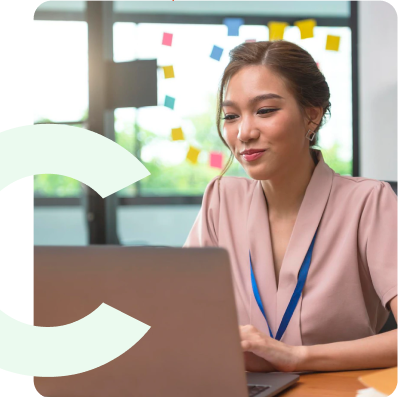
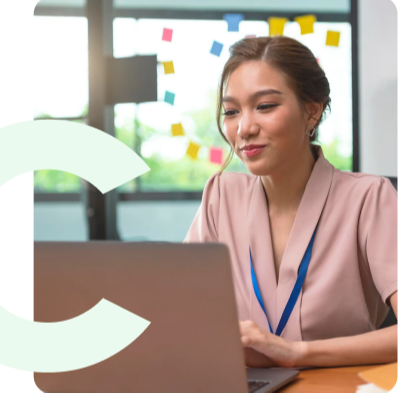
09/03/2026 - Atividade Finalizada com Sucesso!

diff --git a/style.css b/style.css
@@ -230,7 +230,7 @@ main section {
 
 .vertical-line {
     border-left: 0.5px solid var(--branco-claro);
-    height: 100px;
+    height: 6rem;
     align-self: center;
 }
 
@@ -238,6 +238,7 @@ main section {
     display: flex;
     flex-wrap: wrap;
     justify-content: space-between;
+    gap: 1.88rem;
 }
 
 .feature-card {
@@ -247,12 +248,12 @@ main section {
     flex-direction: column;
     align-items: center;
     justify-content: center;
+    gap: 1rem;
 }
 
 .feature-card i {
     font-size: 2rem;
     align-self: auto;
-    padding-bottom: 1rem;
 }
 
 .feature-card p {
@@ -263,39 +264,132 @@ main section {
 }
 
 .under-photo-c img {
-    max-width: 100%;
+    padding: 11.1rem 0 2.875rem 0;
+    max-width: 113%;
+    margin: 0 -2rem 0 -2rem;
+    display: block;
 }
 
-
-
-
-
-
-
-
-
-
-
-
-
-
-
-
-
-.footer-topper {
-    background-color: aqua;
+.section-main-title {
+    font-size: 2.2rem;
+    line-height: 120%;
+    padding: 0 0 2rem 0;
 }
 
-.footer-top {
-    background-color: aquamarine;
+.feedback-quote {
+    padding: 0 0 2.5rem 0;
+    color: var(--cinza-claro);
+    line-height: 160%;
+    font-size: 1rem;
 }
 
-.footer-middle {
-    background-color: rgb(117, 117, 238);
-    flex-direction: row;
+.author-name {
+    padding: 0 0 0.5rem 0;
+    font-size: 1rem;
 }
 
-.footer-end-content {
-    background-color: rgb(23, 155, 155);
+.author-role {
+    padding: 0 0 6rem 0;
+    color: var(--cinza-claro);
+    font-size: 0.875rem;
 }
 
+footer {
+    background-color: var(--cinza-claro2);
+    font-family: "Inter";
+    padding: 0 2rem 0 2rem;
+}
+
+.footer-cta {
+    display: flex;
+    padding: 3.4rem 0 0 0;
+    flex-direction: column;
+    align-items: center;
+    justify-content: center;
+}
+
+.cta-text {
+    display: flex;
+    padding: 2rem 0 5.188rem 0;
+    font-size: 1rem;
+    line-height: 160%;
+    gap: 0.75rem;
+    flex-direction: column;
+}
+
+.cta-text p {
+    font-weight: 500;
+}
+
+.cta-text a {
+    font-weight: 600;
+}
+
+.btn-footer {
+    display: flex;
+    justify-content: center;
+    padding: 0.75rem 0.5rem 0.75rem 0.5rem;
+    background-color: var(--verde-btn);
+    border-radius: 0.5rem;
+    color: white;
+}
+
+.footer-newsletter {
+    display: flex;
+    flex-direction: column;
+}
+
+.footer-newsletter h3 {
+    text-align: left;
+    color: var(--verde-btn);
+    font-size: 1.8rem;
+    line-height: 120%;
+    padding: 0 0 2.5rem 0;
+}
+
+.newsletter-form {
+    display: flex;
+    align-items: flex-end;
+}
+
+.newsletter-form input {
+    flex-grow: 1;
+    border: none;
+    border-bottom: 1px solid #E2E4EB;
+    background-color: var(--cinza-claro2);
+    font-size: 1rem;
+    padding-bottom: 1rem;
+    font-weight: 500;
+    font-family: "Inter";
+}
+
+.newsletter-form button {
+    border: none;
+    background-color: var(--verde-btn);
+    padding: 1rem 1.25rem;
+    border-top-left-radius: 0.5rem;
+    border-top-right-radius: 0.5rem;
+    color: white;
+    margin: 0;
+}
+
+.legal-links {
+    display: flex;
+    padding: 4.125rem 0 0 0;
+    font-size: 1rem;
+    font-weight: 400;
+    gap: 3.4rem;
+}
+
+.social-links {
+    display: flex;
+    padding: 3rem 0 2.75rem 0;
+    justify-content: center;
+    gap: 2.5rem;
+    font-size: 1.5rem;
+}
+
+.social-links i {
+    display: flex;
+    color: var(--verde-btn);
+}

diff --git a/index.html b/index.html
@@ -138,10 +138,10 @@
 
             <div class="feedback-container">
                 <div class="feedback-title">
-                    <h2 class="section-main-title">What our customer says</h2>
+                    <h2 class="section-main-title">What our customer says about Coca Workspace</h2>
                 </div>
                 <blockquote class="feedback-quote">
-                    “Really incredible space for me and my team to every single day work. It has a lot of facilities and we can connect with other agency also freelancer in here.”
+                    “Really incredible space for me and my team to every single day work. It has a lot of facilities and we can connect with other agency also freelancer in here. So far I’m happy to be here and hopefully I can make a same concept like this workspace. Cheerss!!!”
                 </blockquote>
                 <div class="feedback-author">
                     <h3 class="author-name">Zhafira Aduhai</h3>
@@ -153,21 +153,21 @@
 
     <footer>
         <div class="footer-cta">
-            <img src="/assets/header-logo.png" alt="footer logo">
+            <img src="/assets/footer-logo.png" alt="footer logo">
             <div class="cta-text">
                 <p>Ready to get started?</p>
                 <a class="btn-footer">Get Started</a>
             </div>
         </div>
-
+    
         <div class="footer-newsletter">
             <h3>Subscribe to our newsletter</h3>
             <div class="newsletter-form">
-                <input type="email" placeholder="Email address"><hr class="email-line">
+                <input type="email" placeholder="Email address">
                 <button type="submit"><i class="fa-solid fa-angle-right"></i></button>
             </div>
         </div>
-
+    
         <div class="footer-bottom">
             <div class="legal-links">
                 <a id="terms-cond">Terms & Conditions</a>
